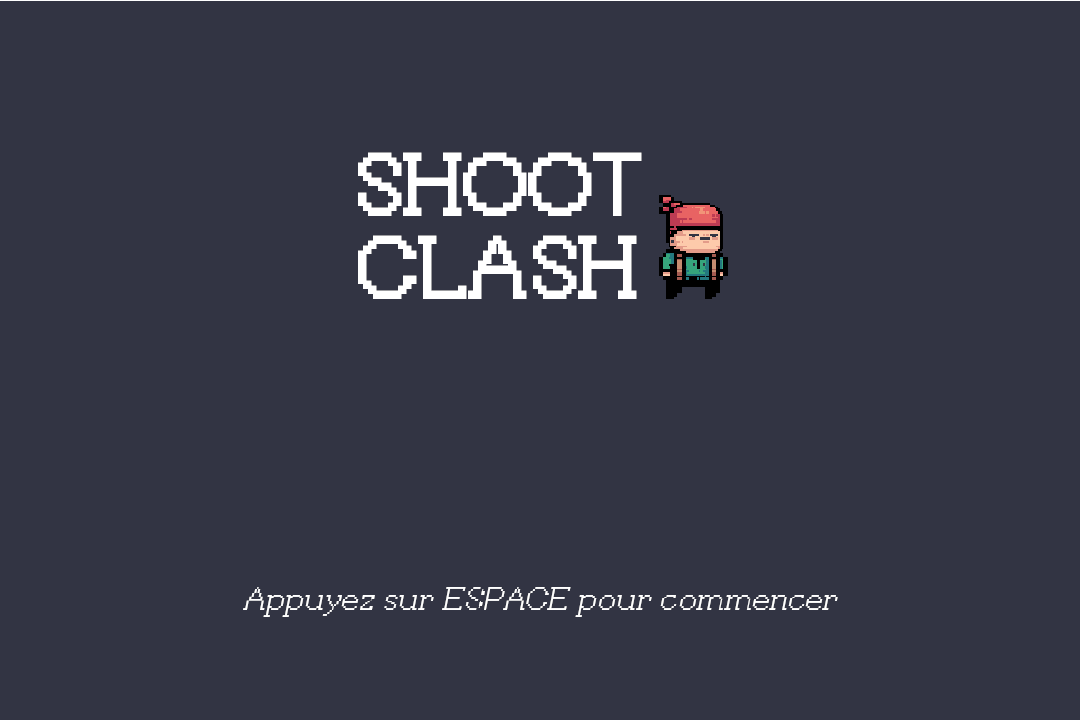
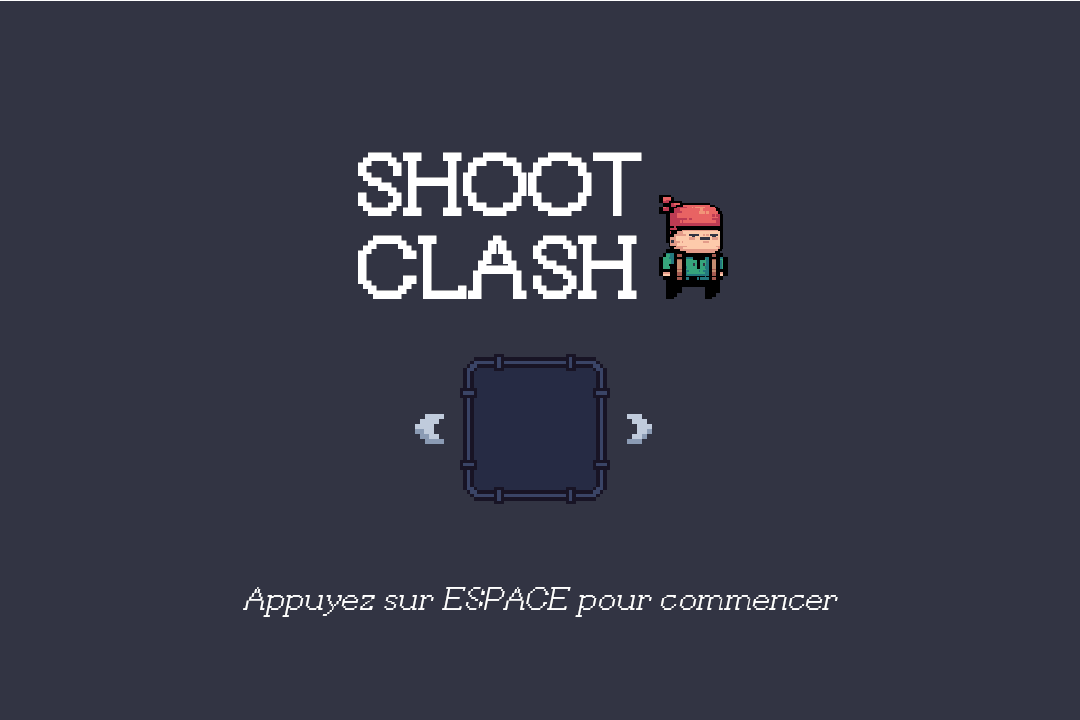
Sélection de l'arme

Changed region(s): [[0.3667, 0.4889, 0.6111, 0.7028]]

diff --git a/src/scene_manager.py b/src/scene_manager.py
@@ -1,3 +1,5 @@
+import pygame
+from bullet import Weapon
 from scenes.end import GameOver, Victory
 from scenes.intro import Intro
 from scenes.level1 import Level1
@@ -5,32 +7,55 @@ from scenes.level1 import Level1
 
 class SceneManager:
     """
-    Stocke et initialise les scenes
+    Gestion des scènes et stockage de l'état de l'arme.
+
+    Paramètres:
+        screen (pygame.Surface): Surface de la fenêtre de jeu.
 
     Propriétés:
-        screen (pygame.Surface): Surface de la fenêtre de jeu.
+        - scene_map (dict): Dictionnaire de toutes les scènes.
+        - level_order (list): Liste des niveaux dans l'ordre d'affichage.
+        - current_level_index (int): Index du niveau actuel.
+        - current_scene_id (str): ID de la scène actuelle.
+        - current_scene (Scene): Scène actuelle.
+        - weapon_list (list): Liste des armes disponibles.
+        - selected_weapon_index (int): Index de l'arme sélectionnée.
     """
 
     def __init__(self, screen) -> None:
         self.screen = screen
 
-        self.scene_map = {"intro": Intro, "game_over": GameOver, "victory": Victory, "level1": Level1}
+        self.scene_map = {
+            "intro": Intro,
+            "game_over": GameOver,
+            "victory": Victory,
+            "level1": Level1
+        }
         self.levels_order = ["intro", "level1", "victory"]
 
         self.current_level_index = 0
         self.current_scene_id = self.levels_order[self.current_level_index]
         self.current_scene = Intro(self)
 
+        pistol_image = pygame.image.load("assets/guns/pistol.png").convert_alpha()
+        assault_image = pygame.image.load("assets/guns/assault_riffle.png").convert_alpha()
+
+        pistol_weapon = Weapon(pistol_image, cadence=700, recoil=3, damage=100, reload_count=2, reload_time=700)
+        assault_weapon = Weapon(assault_image, cadence=100, recoil=1, damage=20, reload_count=20, reload_time=500)
+
+        self.weapon_list = [assault_weapon, pistol_weapon]
+        self.selected_weapon_index = 0
+
     def load_scene(self, scene_id):
         """
-        Charge une scene
+        Charge une scene avec un identifiant donné.
         """
         self.current_scene_id = scene_id
         self.current_scene = self.scene_map[self.current_scene_id](self)
 
     def load_level(self, level_index):
         """
-        Passe a un niveau specifique (par index)
+        Passe a un niveau specifique à partir de son index.
         """
         self.current_level_index = level_index
         self.load_scene(self.levels_order[level_index])
@@ -46,13 +71,16 @@ class SceneManager:
         """
         Passe au niveau suivant
         """
-        self.current_level_index = (self.current_level_index + 1) % len(self.levels_order)
+        self.current_level_index = (
+            self.current_level_index + 1) % len(self.levels_order)
         self.load_scene(self.levels_order[self.current_level_index])
 
     def update(self, elapsed):
         """
         Met à jour la scène active (appelée à chaque frame).
-        elapsed (float): le temps écoulé depuis la dernière frame.
+
+        Paramètres:
+        - elapsed (float): le temps écoulé depuis la dernière frame.
         """
 
         self.current_scene.update(elapsed)
@@ -62,3 +90,6 @@ class SceneManager:
         Dessine la scène active (appelée à chaque frame).
         """
         self.current_scene.draw()
+
+    def get_selected_weapon(self):
+        return self.weapon_list[self.selected_weapon_index]

diff --git a/src/bullet.py b/src/bullet.py
@@ -70,6 +70,7 @@ class Weapon:
     une seconde après le dernier tir.
 
     Attributs :
+        image : image de l'arme
         cadence : cadence de tir de l'arme --> 0 = forte cadence et --> 10000+ = faible cadence
         recoil : recul produit par l'arme sur l'utilisateur
         damage : dégats de l'arme
@@ -87,7 +88,8 @@ class Weapon:
         shoot() : permet à l'arme de tirer --> méthode appelée par la méthode shoot() de Player
     """
 
-    def __init__(self, cadence, recoil, damage, reload_count, reload_time, velocity=Vector(22, 0)) -> None:
+    def __init__(self, image: pygame.Surface, cadence, recoil, damage, reload_count, reload_time, velocity=Vector(22, 0)) -> None:
+        self.image = image
         self.cadence = cadence
         self.recoil = recoil
         self.damage = damage
@@ -95,7 +97,8 @@ class Weapon:
         self.reload_time = reload_time
         self.reload_total = reload_time * reload_count
         self.velocity = velocity
-        self.shoot_sound = pygame.mixer.Sound("assets/sounds/pistolet_tontons_flingueurs.wav")
+        self.shoot_sound = pygame.mixer.Sound(
+            "assets/sounds/pistolet_tontons_flingueurs.wav")
 
         self.last_shoot = 0
         self.reload_progress = 0
@@ -124,7 +127,7 @@ class Weapon:
                 entity_rect_x,
                 entity_rect_y,
                 Vector(self.velocity.x if entity_direction ==
-                    "right" else -self.velocity.x, 0),
+                       "right" else -self.velocity.x, 0),
                 group,
                 self.damage
             )

diff --git a/src/scenes/intro.py b/src/scenes/intro.py
@@ -21,7 +21,16 @@ class Intro(Scene):
         pressed_keys = pygame.key.get_pressed()
         if pressed_keys[pygame.K_SPACE] and not self.last_keys_state[pygame.K_SPACE]:
             self.scene_manager.next_level()
+        if pressed_keys[pygame.K_RIGHT] and not self.last_keys_state[pygame.K_RIGHT]:
+            self.scene_manager.selected_weapon_index = (
+                self.scene_manager.selected_weapon_index + 1) % len(self.scene_manager.weapon_list)
+        if pressed_keys[pygame.K_LEFT] and not self.last_keys_state[pygame.K_LEFT]:
+            self.scene_manager.selected_weapon_index = (
+                self.scene_manager.selected_weapon_index - 1) % len(self.scene_manager.weapon_list)
         self.last_keys_state = pressed_keys
 
     def draw(self) -> None:
         self.screen.blit(self.background, (0, 0))
+        self.screen.blit(self.scene_manager.weapon_list[self.scene_manager.selected_weapon_index].image,
+                         ((535 - self.scene_manager.weapon_list[self.scene_manager.selected_weapon_index].image.get_width() / 2),
+                          429 - self.scene_manager.weapon_list[self.scene_manager.selected_weapon_index].image.get_height() / 2))

diff --git a/src/scenes/level1.py b/src/scenes/level1.py
@@ -82,8 +82,9 @@ class Level1(Level):
             (self.event_box_group, self.door_group)
         )
 
-        w1 = Weapon(cadence=100, recoil=1, damage=20, reload_count=20, reload_time=200)
-        Player(self, 140, 470, 1, self.player_group, weapon=w1)
+        # w1 = Weapon(cadence=100, recoil=1, damage=20, reload_count=20, reload_time=200)
+        Player(self, 140, 470, 1, self.player_group,
+               weapon=self.scene_manager.get_selected_weapon())
 
     def draw_background(self):
         self.screen.blit(self.background, (0, 0))
